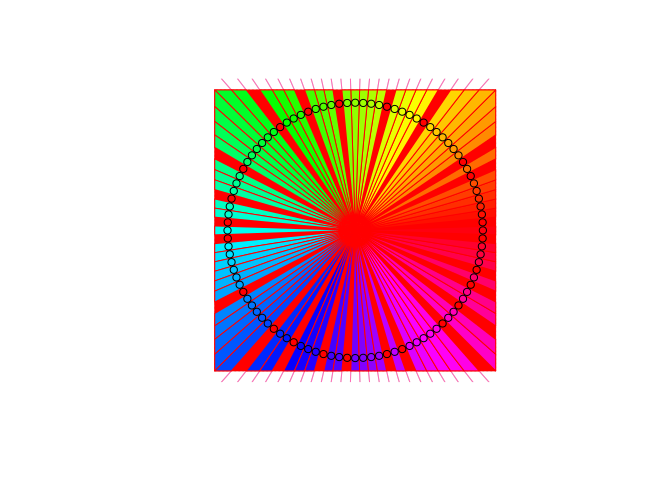
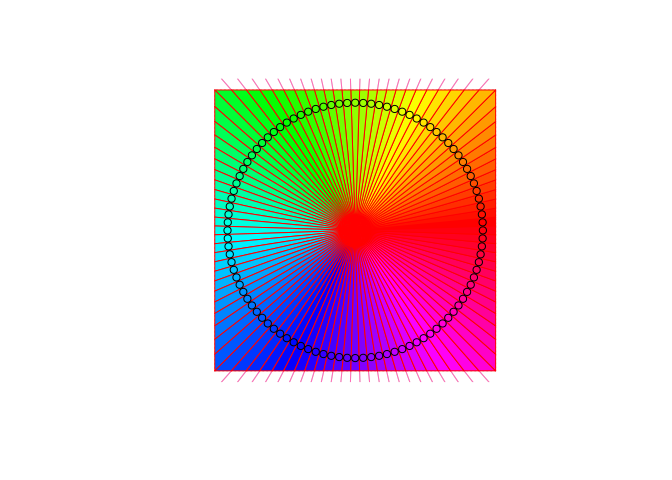
more effective remapping when merging vertices

Changed region(s): [[0.3125, 0.1875, 0.75, 0.7812], [0.6875, 0.7188, 0.75, 0.7812], [0.3125, 0.5938, 0.375, 0.6562]]

diff --git a/src/R-merge-vertices.c b/src/R-merge-vertices.c
@@ -18,7 +18,32 @@
 #include "R-merge-vertices.h"
 
 
-
+void remap_insert(int *remap, int i1, int i2) {
+  
+  // Swap so i1 is always larger
+  if (i1 < i2) {
+    int tmp = i1;
+    i1 = i2;
+    i2 = tmp;
+  }
+  
+  // New remapping
+  if (remap[i1] < 0) {
+    remap[i1] = i2;
+    return;
+  } else if (remap[i1] == i2) {
+    return;
+  } else {
+    // i1 is already remapped to something!
+    if (remap[i1] > i2) {
+      remap_insert(remap, remap[i1], i2);
+      remap[i1] = i2;
+    } else {
+      remap_insert(remap, remap[i1], i2);
+    }
+  }
+  
+}
 
 //~~~~~~~~~~~~~~~~~~~~~~~~~~~~~~~~~~~~~~~~~~~~~~~~~~~~~~~~~~~~~~~~~~~~~~~~~~~
 // 
@@ -31,13 +56,13 @@ void merge_vertices_core_(double tol,
                           int verbosity) {
   
   
-  int *remap1 = malloc((unsigned long)nverts * sizeof(int));
-  int *remap2 = malloc((unsigned long)nverts * sizeof(int));
-  if (remap1 == NULL || remap2 == NULL) {
-    error("merge_vertices_core_(): could not allocate 'remap1' and 'remap2'");
+  int *remap = malloc((unsigned long)nverts * sizeof(int));
+  if (remap == NULL) {
+    error("merge_vertices_core_(): could not allocate 'remap'");
   }
-  int rcnt = 0;
-  
+  for (int i = 0; i < nverts; i++) {
+    remap[i] = -1;
+  }
   
   for (int i = 0; i < nedges; i++) {
     int i1 = v1[i];
@@ -57,15 +82,13 @@ void merge_vertices_core_(double tol,
     
     double dist = (x2 - x1) * (x2 - x1) + (y2 - y1) * (y2 - y1);
     
+    if (verbosity > 0) {
+      Rprintf("Edge: %i (%i -> %i): Dist: %.6f\n", i, i1, i2, dist);
+    }
+    
     if (dist < tol) {
-      if (i1 > i2) {
-        remap1[rcnt] = i2;
-        remap2[rcnt] = i1;  // remap2 always holds the higher index
-      } else {
-        remap1[rcnt] = i1;
-        remap2[rcnt] = i2;
-      }
-      rcnt++;
+      if (verbosity > 0) Rprintf("^ Remap\n");
+      remap_insert(remap, i1, i2);
     } 
   }
   
@@ -76,7 +99,7 @@ void merge_vertices_core_(double tol,
   //~~~~~~~~~~~~~~~~~~~~~~~~~~~~~~~~~~~~~~~~~~~~~~~~~~~~~~~~~~~~~~~~~~~~~~~~~~~
   if (verbosity > 0) {
     for (int i = 0; i < nedges; i++) {
-      Rprintf("%2i: (%2i, %2i)\n", i, v1[i], v2[i]);
+      Rprintf("%2i: (%4i, %4i)\n", i, v1[i], v2[i]);
     }
   }
   
@@ -84,8 +107,10 @@ void merge_vertices_core_(double tol,
   // Print remaps
   //~~~~~~~~~~~~~~~~~~~~~~~~~~~~~~~~~~~~~~~~~~~~~~~~~~~~~~~~~~~~~~~~~~~~~~~~~~~
   if (verbosity > 0) {
-    for (int i = rcnt - 1; i >= 0; i--) {
-      Rprintf("Remap: %i: %i == %i\n", i, remap1[i], remap2[i]);
+    for (int i = 0; i < nverts; i++) {
+      if (remap[i] >= 0) {
+        Rprintf("Remap: %i => %i\n", i, remap[i]);
+      }
     }
   }
   
@@ -97,11 +122,12 @@ void merge_vertices_core_(double tol,
   //~~~~~~~~~~~~~~~~~~~~~~~~~~~~~~~~~~~~~~~~~~~~~~~~~~~~~~~~~~~~~~~~~~~~~~~~~~~
   // Renumber verts
   //~~~~~~~~~~~~~~~~~~~~~~~~~~~~~~~~~~~~~~~~~~~~~~~~~~~~~~~~~~~~~~~~~~~~~~~~~~~
-  for (int i = rcnt - 1; i >= 0; i--) {
-    int vlo = remap1[i];
-    int vhi = remap2[i];
+  for (int i = nverts - 1; i >= 0; i--) {
+    if (remap[i] < 0) continue;
+    int vlo = remap[i];
+    int vhi = i;
     
-    // Rprintf("REMAP: %i: %i -> %i\n", i, vhi, vlo);
+    // Rprintf("REMAP: %i -> %i\n", vhi, vlo);
     
     for (int j = 0; j < nedges; j++) {
       if (v1[j] == vhi) v1[j] = vlo; 
@@ -140,7 +166,7 @@ void merge_vertices_core_(double tol,
   if (verbosity > 0) {
     Rprintf("Ndistcard: %i\n", ndiscard);
     for (int i = 0; i < nedges; i++) {
-      Rprintf("(%i)  %i\n", i, discard[i]);
+      Rprintf("(%4i)  %4i\n", i, discard[i]);
     }
   }
   
@@ -149,7 +175,7 @@ void merge_vertices_core_(double tol,
   //~~~~~~~~~~~~~~~~~~~~~~~~~~~~~~~~~~~~~~~~~~~~~~~~~~~~~~~~~~~~~~~~~~~~~~~~~~~
   if (verbosity > 0) {  
     for (int i = 0; i < nedges; i++) {
-      Rprintf("%2i: (%2i, %2i)\n", i, v1[i], v2[i]);
+      Rprintf("%2i: (%4i, %4i)\n", i, v1[i], v2[i]);
     }
   }
   
@@ -165,7 +191,7 @@ void merge_vertices_core_(double tol,
     v2[dst]   = v2[src];
     line[dst] = line[src];
     if (verbosity > 1) {
-      Rprintf("src %02i  ->  dst %02i\n", src, dst);
+      Rprintf("src %4i  ->  dst %4i\n", src, dst);
     }
   }
   
@@ -179,15 +205,14 @@ void merge_vertices_core_(double tol,
   
   if (verbosity > 0) {  
     for (int i = 0; i < nedges; i++) {
-      Rprintf("%2i: (%2i, %2i)\n", i, v1[i], v2[i]);
+      Rprintf("%2i: (%4i, %4i)\n", i, v1[i], v2[i]);
     }
   }
   
   *fnedges = nedges - ndiscard;
   
   free(discard);
-  free(remap1);
-  free(remap2);
+  free(remap);
 }
 
 

diff --git a/src/R-extract-polygons.c b/src/R-extract-polygons.c
@@ -588,6 +588,7 @@ SEXP extract_polygons_internal(int vert_n, double *vert_x, double *vert_y,
       memcpy(REAL(y_)   , polys[i].y, polys[i].nvert * sizeof(double));
       memcpy(INTEGER(v_), polys[i].v, polys[i].nvert * sizeof(int));
       
+      convert_indexing_c_to_r(v_);
       
       UNPROTECT(4); // everything is protected as they're now members of list 'res_'
     }
@@ -625,6 +626,7 @@ SEXP extract_polygons_internal(int vert_n, double *vert_x, double *vert_y,
       memcpy(REAL(y_)   , polys[i].y, polys[i].nvert * sizeof(double));
       memcpy(INTEGER(v_), polys[i].v, polys[i].nvert * sizeof(int));
       
+      convert_indexing_c_to_r(v_);
       
       UNPROTECT(4); // everything is protected as they're now members of list 'res_'
       llidx++;

diff --git a/src/R-voronoi.c b/src/R-voronoi.c
@@ -185,7 +185,7 @@ SEXP voronoi_(SEXP x_, SEXP y_, SEXP match_polygons_) {
   //~~~~~~~~~~~~~~~~~~~~~~~~~~~~~~~~~~~~~~~~~~~~~~~~~~~~~~~~~~~~~~~~~~~~~~~~~~
   // Merge close vertices which are an artefact of the tessellation
   //~~~~~~~~~~~~~~~~~~~~~~~~~~~~~~~~~~~~~~~~~~~~~~~~~~~~~~~~~~~~~~~~~~~~~~~~~~
-  merge_vertices_core_(1e-6, 
+  merge_vertices_core_(1e-5, 
                        ctx.nverts, ctx.vert_x, ctx.vert_y,
                        ctx.nsegs, linem, v1m, v2m, 
                        &fnedges, 0);

diff --git a/README.md b/README.md
@@ -107,10 +107,10 @@ identical(
 #> [1] TRUE
 ```
 
-| expression    |      min |  median |   itr/sec | mem_alloc |
-|:--------------|---------:|--------:|----------:|----------:|
-| del_rtriangle | 121.77µs | 127.6µs |  7390.705 |    5.76KB |
-| del_new       |   9.79µs |  11.7µs | 83466.769 |    2.57KB |
+| expression    |      min | median |   itr/sec | mem_alloc |
+|:--------------|---------:|-------:|----------:|----------:|
+| del_rtriangle | 122.41µs |  128µs |  7640.239 |    5.76KB |
+| del_new       |   9.82µs |   12µs | 82652.309 |    2.57KB |
 
 ## Debug plotting
 
@@ -149,14 +149,6 @@ x <- cos(theta)
 y <- sin(theta)
 
 vor <- voronoi(x, y)
-#> Warning in voronoi(x, y): Poly [3] has a point index of -1
-#> Warning in voronoi(x, y): Poly [6] has a point index of -1
-#> Warning in voronoi(x, y): Poly [12] has a point index of -1
-#> Warning in voronoi(x, y): Poly [23] has a point index of -1
-#> Warning in voronoi(x, y): Poly [27] has a point index of -1
-```
-
-``` r
 
 plot_vor(vor) |>
   draw_segments() |> 
